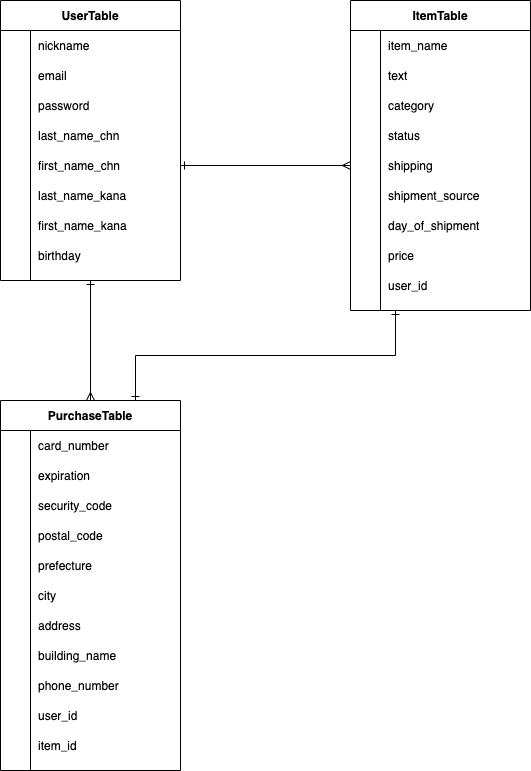
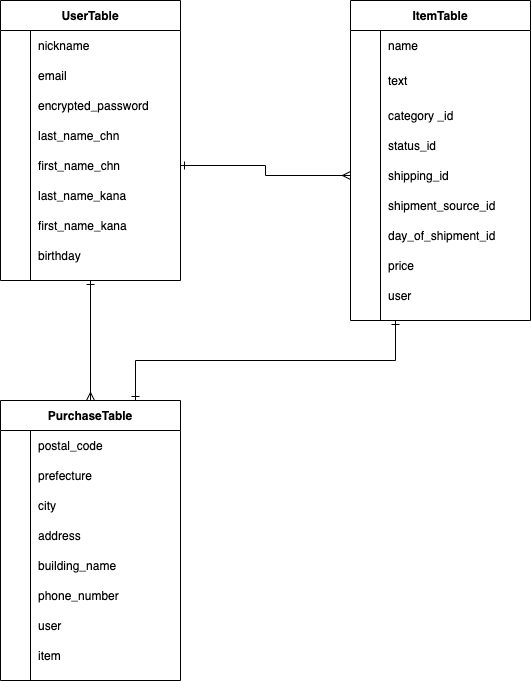
README及びER図の修正

diff --git a/README.md b/README.md
@@ -2,16 +2,16 @@
 
 ## userテーブル
 
-| Column          | TYpe   | Options     |
-| --------------- | ------ | ----------- |
-| nickname        | string | null: false |
-| email           | string | null: false |
-| password        | string | null: false |
-| last_name_chn   | string | null: false |
-| first_name_chn  | string | null: false |
-| last_name_kana  | string | null: false |
-| first_name_kana | string | null: false |
-| birthday        | date   | null: false |
+| Column             | TYpe   | Options     |
+| ------------------ | ------ | ----------- |
+| nickname           | string | null: false |
+| email              | string | null: false |
+| encrypted_password | string | null: false |
+| last_name_chn      | string | null: false |
+| first_name_chn     | string | null: false |
+| last_name_kana     | string | null: false |
+| first_name_kana    | string | null: false |
+| birthday           | date   | null: false |
 
 ### Association
   -has_many :items dependent::destroy
@@ -19,17 +19,17 @@
 
 ## itemテーブル
 
-| Column          | TYpe       | Options                        |
-| --------------- | ---------- | ------------------------------ |
-| item_name       | string     | null: false                    |
-| text            | string     | null: false                    |
-| category        | string     | null: false                    |
-| status          | string     | null: false                    |
-| shipping        | string     | null: false                    |
-| shipment_source | string     | null: false                    |
-| day_of_shipment | string     | null: false                    |
-| price           | integer    | null: false                    |
-| user_id         | references | null: false, foreign_key: true |
+| Column             | TYpe       | Options                        |
+| ------------------ | ---------- | ------------------------------ |
+| name               | string     | null: false                    |
+| text               | string     | null: false                    |
+| category_id        | integer    | null: false                    |
+| status_id          | integer    | null: false                    |
+| shipping_id        | integer    | null: false                    |
+| shipment_source_id | integer    | null: false                    |
+| day_of_shipment_id | integer    | null: false                    |
+| price              | integer    | null: false                    |
+| user           | references | null: false, foreign_key: true |
 
 ### Association
   -belongs_to :user
@@ -37,19 +37,16 @@
 
 ## Purchaseテーブル
 
-| Column          | TYpe       | Options                        |
-| --------------- | ---------- | ------------------------------ |
-| card_number     | integer    | null: false                    |
-| expiration      | date       | null: false                    |
-| security_code   | integer    | null: false                    |
-| postal_code     | integer    | null: false                    |
-| prefecture      | string     | null: false                    |
-| city            | string     | null: false                    |
-| address         | string     | null: false                    |
-| building_name   | string     | null: false                    |
-| phone_number    | integer    | null: false                    |
-| user_id         | references | null: false, foreign_key: true |
-| item_id         | references | null: false, foreign_key: true |
+| Column        | TYpe       | Options                        |
+| ------------- | ---------- | ------------------------------ |
+| postal_code   | string     | null: false                    |
+| prefecture_id | integer    | null: false                    |
+| city          | string     | null: false                    |
+| address       | string     | null: false                    |
+| building_name | string     |                                |
+| phone_number  | string     | null: false                    |
+| user          | references | null: false, foreign_key: true |
+| item          | references | null: false, foreign_key: true |
 
 ### Association
   -belongs_to :user
